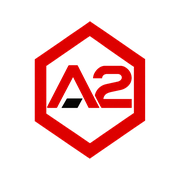
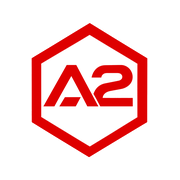
Ícono del navegador: nueva imagen del hexágono A2 (interior y línea blanca, rojo #DE0000)

diff --git a/index.html b/index.html
@@ -6,9 +6,9 @@
   <meta name="robots" content="noindex, nofollow">
   <title>A2 Innovación en Construcción y Diseño, S.A. de C.V.</title>
   <!-- Ícono del sitio (favicon): el hexágono A2 en la pestaña y junto a la dirección del navegador -->
-  <link rel="icon" href="favicon.ico?v=2" sizes="16x16 32x32 48x48">
-  <link rel="icon" type="image/png" sizes="192x192" href="img/icono-192.png?v=2">
-  <link rel="apple-touch-icon" href="img/apple-touch-icon.png?v=2">
+  <link rel="icon" href="favicon.ico?v=3" sizes="16x16 32x32 48x48">
+  <link rel="icon" type="image/png" sizes="192x192" href="img/icono-192.png?v=3">
+  <link rel="apple-touch-icon" href="img/apple-touch-icon.png?v=3">
   <!-- Tipografía: SF Pro Display es la fuente del sistema en Apple (Mac, iPhone, iPad)
        y no se puede publicar en un sitio web. En los demás equipos se usa Inter,
        muy parecida, que se carga desde Google Fonts. -->
